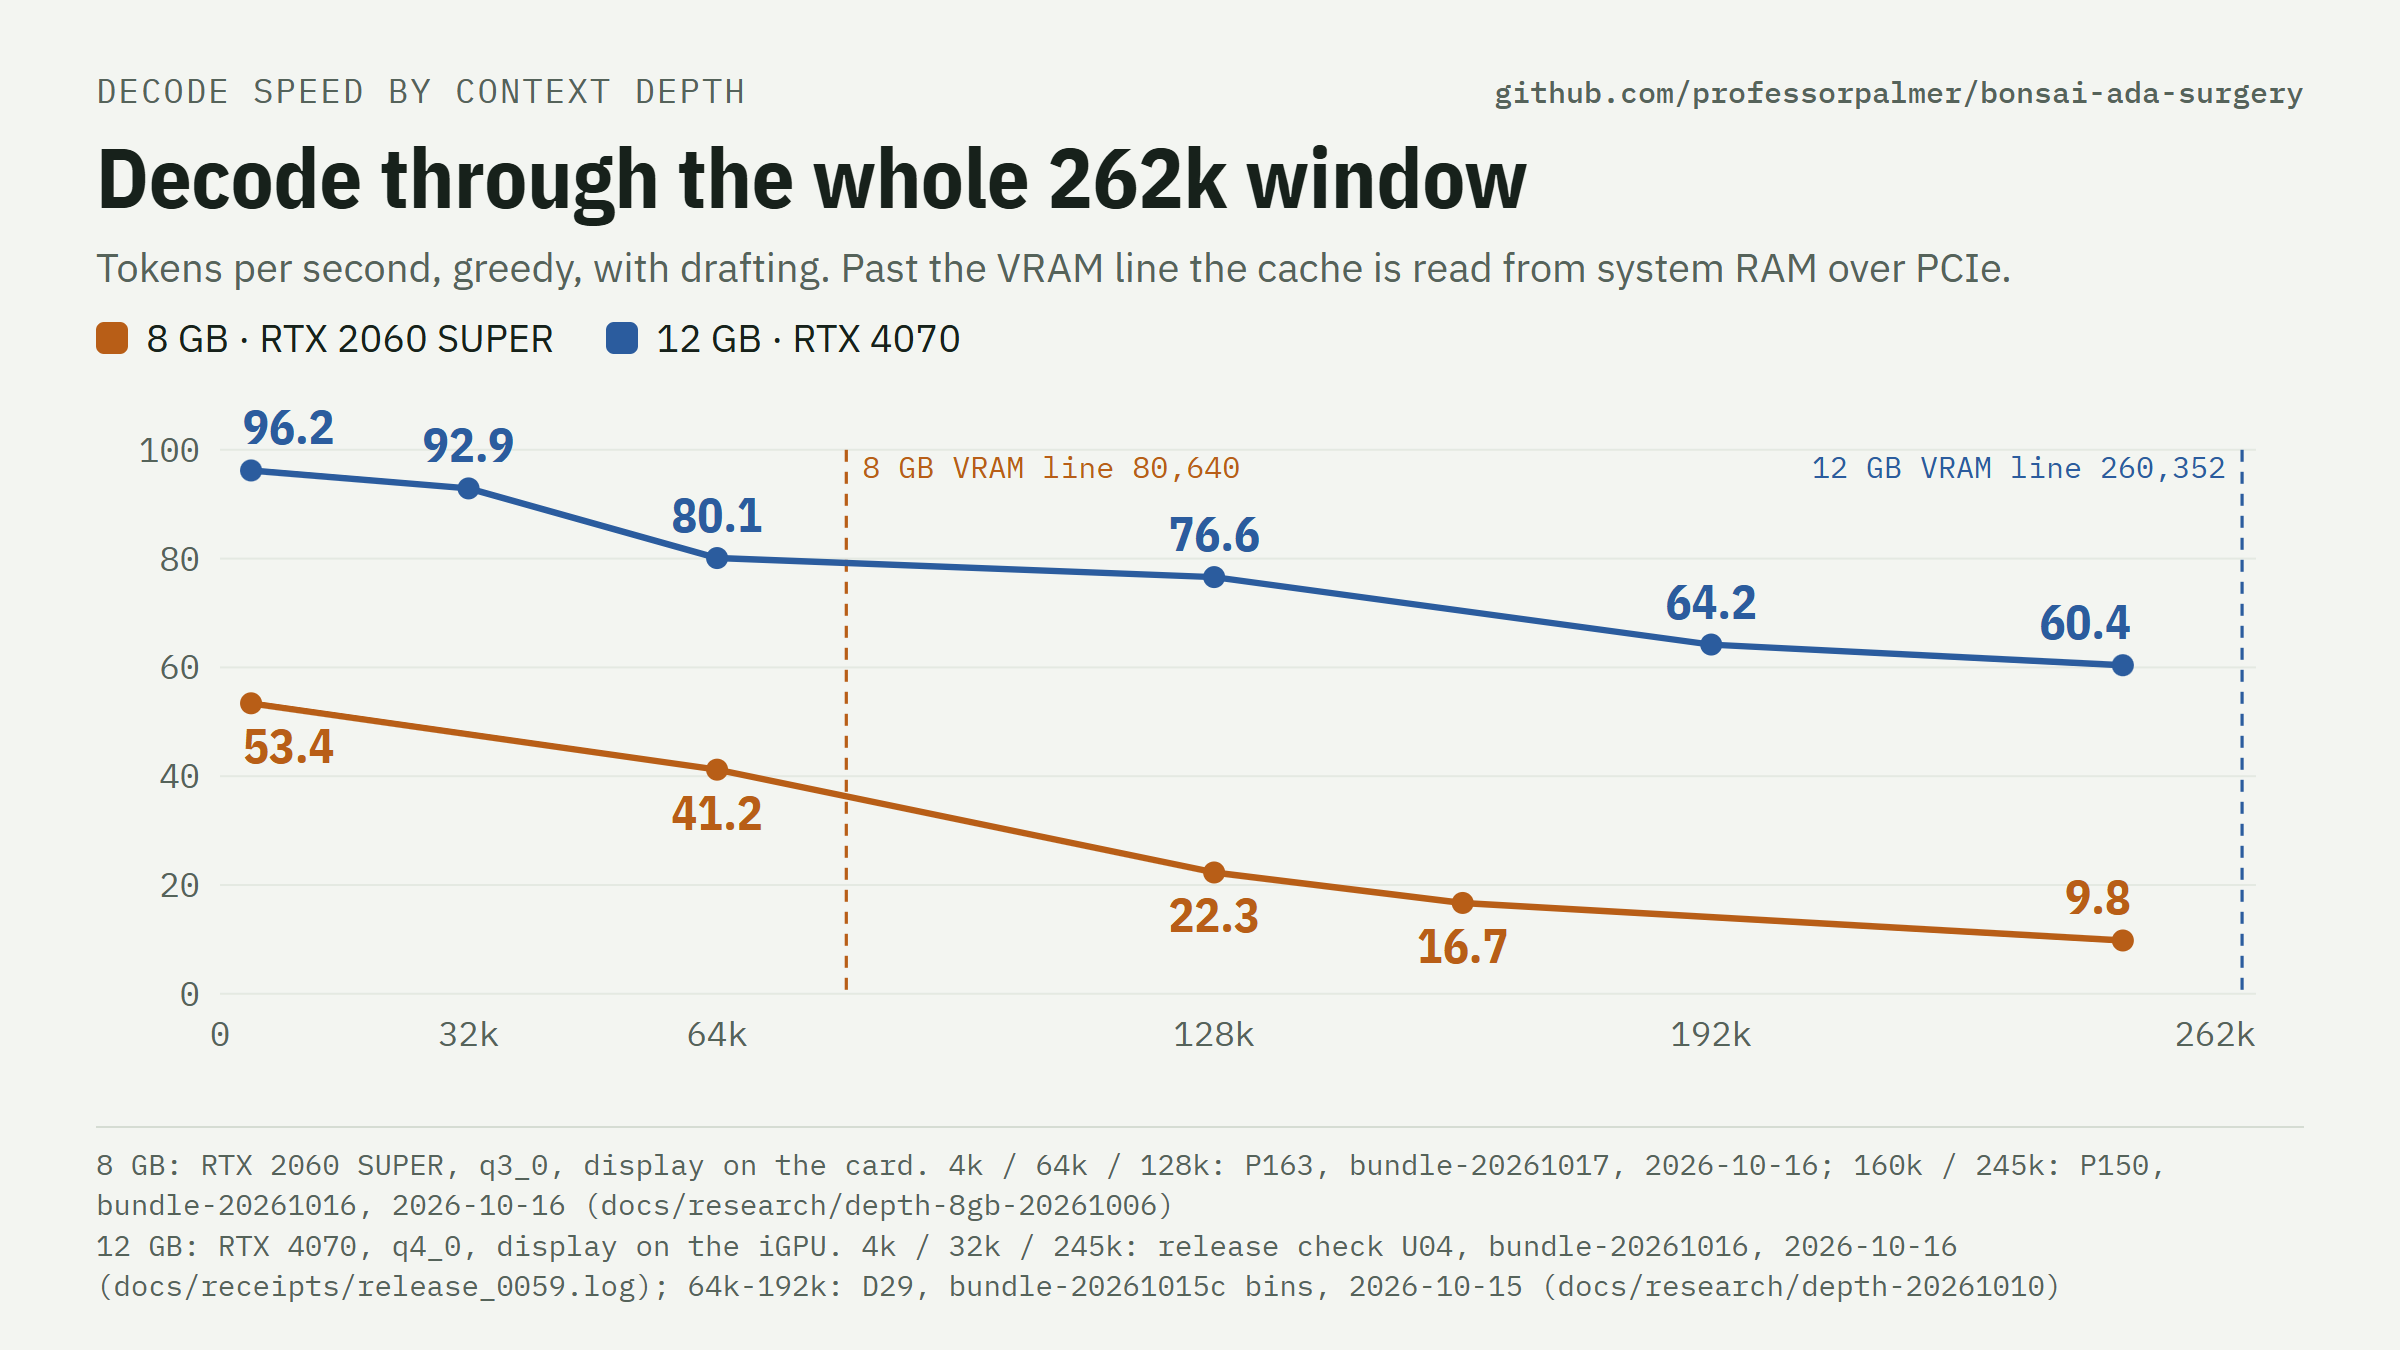
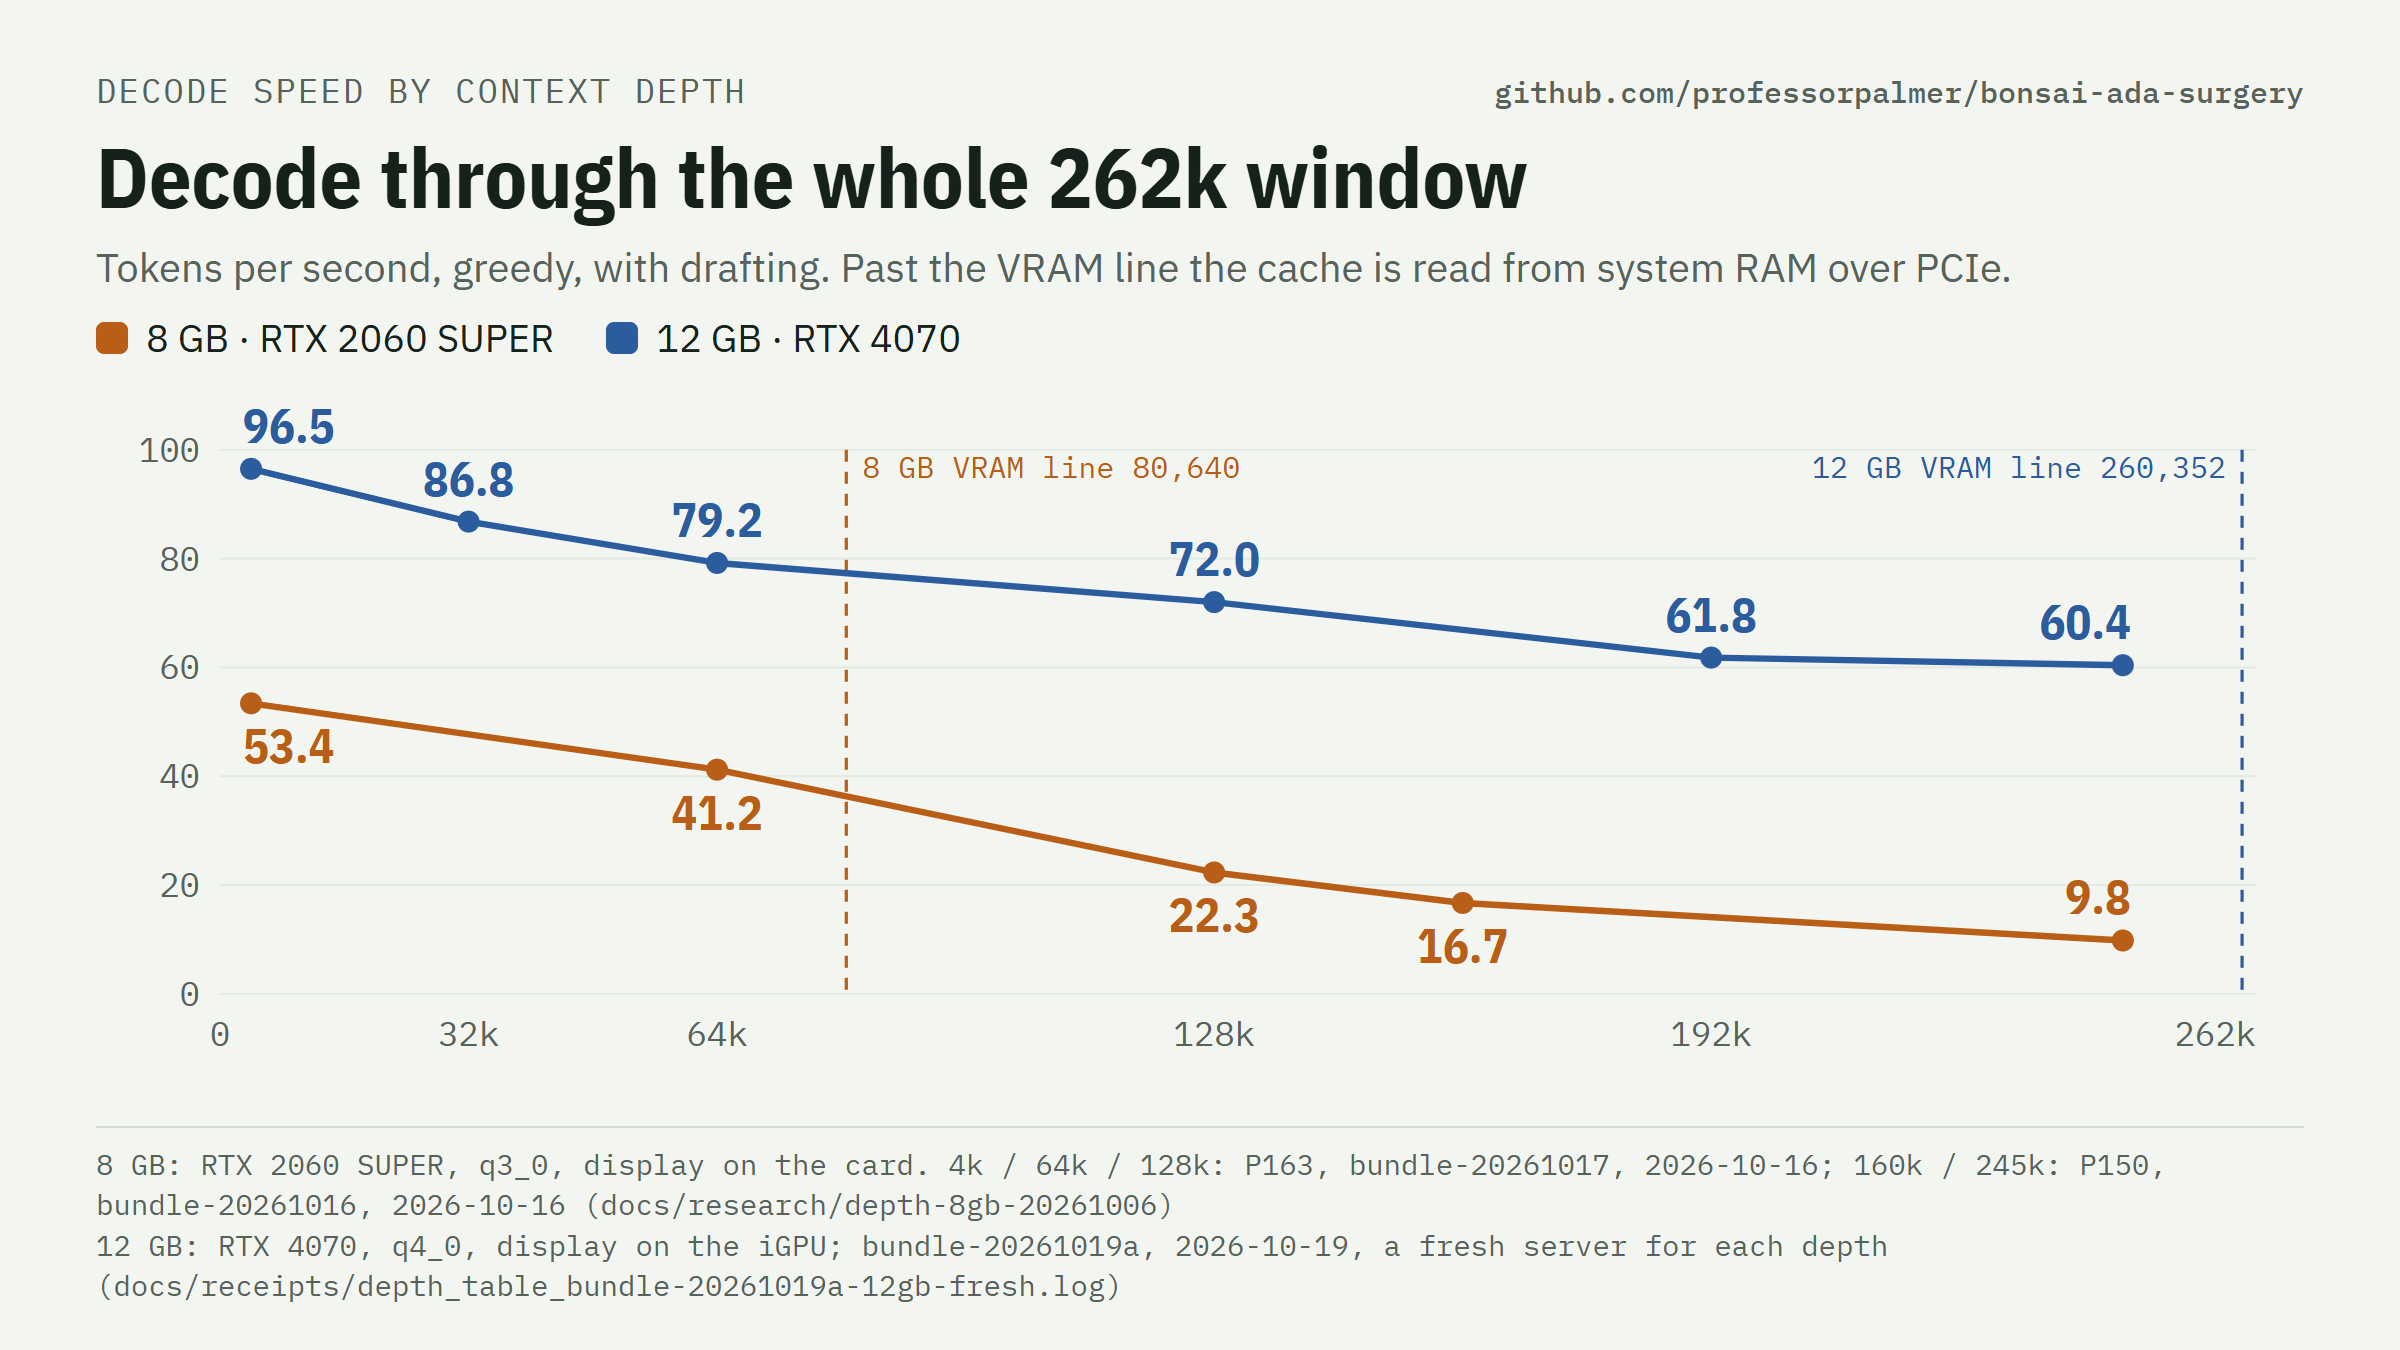
docs: 12 GB numbers from bundle-20261019a, a fresh server for each depth; 12 GB cold reads 4k-245k
One server start per depth: lookup drafting learns from earlier answers, so a one-server table that asks the same prompts at each depth shows too-high numbers at the later depths (4k 119.9 against 96.5 fresh). Cards, scorecard and the 12 GB / 8 GB pages now use one 12 GB run (docs/receipts/depth_table_bundle-20261019a-12gb-fresh.log); the 12 GB cold reads at 32k-245k are new.

Changed region(s): [[0.0938, 0.3111, 0.875, 0.4978], [0.1562, 0.9022, 0.8438, 0.9644]]

diff --git a/docs/cards/prefill.html b/docs/cards/prefill.html
@@ -6,26 +6,23 @@
 <script>
 var DATA = {
   rig: {
-    '12gb': '12 GB: RTX 4070, q4_0, display on the iGPU; release check U04, bundle-20261016, 2026-10-16 (docs/receipts/release_0059.log). Cold 64k-245k reads with q4_0: not measured yet',
+    '12gb': '12 GB: RTX 4070, q4_0, display on the iGPU; bundle-20261019a, 2026-10-19, a fresh server for each prompt (docs/receipts/depth_table_bundle-20261019a-12gb-fresh.log)',
     '8gb': '8 GB: RTX 2060 SUPER, q3_0, display on the card; P163 / P168, bundle-20261017, 2026-10-16/17; P156c, bundle-20261016b, 2026-10-16 (docs/research/depth-8gb-20261006)'
   },
   // rate = prefill tok/s reported by the server; ttft = seconds to the first token where the record gives it.
   rows: [
     { label: '4k prompt, cold', note: '4,048 tokens',
-      '12gb': { rate: 1294, ttft: 3.13 },      // release_0059.log r0059 code depth 4000: 1293.7 tok/s, ttft 3.13 s
+      '12gb': { rate: 1297, ttft: 3.12 },      // fresh 4000 code: 1297.3 tok/s, ttft 3.12 s
       '8gb': { rate: 417, ttft: 9.71 } },       // P163 sweep 4k: 416.7 tok/s, TTFT 9.71 s
     { label: '64k prompt, cold', note: '~64,000 tokens',
-      '12gb': null,
+      '12gb': { rate: 968, ttft: 66.1 },       // fresh 64000 code: 968.3 tok/s, ttft 66.11 s (64,009 tokens)
       '8gb': { rate: 309, ttft: null } },       // P168 cold 64k: 309.3-309.6 tok/s (wall 208.9 s with the answer)
     { label: '128k prompt, cold', note: '127,340 tokens',
-      '12gb': null,
+      '12gb': { rate: 739, ttft: 172 },        // fresh 128000 code: 738.7 tok/s, ttft 172.38 s
       '8gb': { rate: 241, ttft: 529 } },        // P163 cold 128k: 240.6 tok/s, TTFT 529.28 s
     { label: '245k prompt, cold', note: '243,896 tokens',
-      '12gb': null,
-      '8gb': { rate: 164, ttft: 1489 } },       // P156c t2 (the default since bundle-20261016b): 163.8 tok/s, TTFT 1,488.61 s
-    { label: '32k read, then to 245k', note: '212,368 new tokens',
-      '12gb': { rate: 477, ttft: 445 },        // release_0059.log r0059 code depth 245000: 477.1 tok/s, ttft 445.14 s
-      '8gb': null }
+      '12gb': { rate: 516, ttft: 473 },        // fresh 245000 code: 516.0 tok/s, ttft 472.71 s
+      '8gb': { rate: 164, ttft: 1489 } }        // P156c t2 (the default since bundle-20261016b): 163.8 tok/s, TTFT 1,488.61 s
   ],
   max: 1300
 };

diff --git a/docs/cards/scorecard.html b/docs/cards/scorecard.html
@@ -7,7 +7,7 @@
 var DATA = {
   // Small print under the card, one line per tier.
   rig: {
-    '12gb': 'RTX 4070, display on the iGPU: decode 2026-10-15/16, HumanEval 2026-10-16 (bundle-20261016)',
+    '12gb': 'RTX 4070, display on the iGPU: speed 2026-10-19 (bundle-20261019a), HumanEval 2026-10-16 (bundle-20261016)',
     '8gb': 'RTX 2060 SUPER, display on the card: decode 2026-10-16 (bundle-20261016/17), HumanEval 2026-10-14'
   },
   // Window and K/V cache type: start-server.ps1 defaults (12 GB band: q4_0; 8 GB preset: q3_0, 262k with >= 24 GB RAM).
@@ -17,13 +17,13 @@ var DATA = {
   // 8 GB docs/research/depth-8gb-20261006/experiments/P163.md (launcher line, display on the card).
   vramCells: { '12gb': 260352, '8gb': 80640 },
   // Decode, tok/s, quick_tps mean of code / prose / bash, 400-token greedy answers, MTP + lookup drafting.
-  // 12 GB: 4k and 245k docs/receipts/release_0059.log U04 (2026-10-16); 128k docs/research/depth-20261010 D29 (2026-10-15).
+  // 12 GB: docs/receipts/depth_table_bundle-20261019a-12gb-fresh.log (2026-10-19, a fresh server for each depth).
   // 8 GB: 4k and 128k P163.md (2026-10-16); 245k P150.md (2026-10-16).
-  decode4k: { '12gb': 96.2, '8gb': 53.4 },
-  decode128k: { '12gb': 76.6, '8gb': 22.3 },
+  decode4k: { '12gb': 96.5, '8gb': 53.4 },
+  decode128k: { '12gb': 72.0, '8gb': 22.3 },
   decode245k: { '12gb': 60.4, '8gb': 9.8 },
-  // Prefill of a fresh 4,048-token code prompt, tok/s. 12 GB release_0059.log U04 r0059; 8 GB P163.md sweep 4k.
-  prefill4k: { '12gb': 1294, '8gb': 417 },
+  // Prefill of a fresh 4,048-token code prompt, tok/s. 12 GB the same 2026-10-19 log; 8 GB P163.md sweep 4k.
+  prefill4k: { '12gb': 1297, '8gb': 417 },
   // HumanEval 164 at medium, default cache. 12 GB docs/research/release-20261016 U03 (q4_0);
   // 8 GB docs/research/release-20261014b S04 / P131 (q3_0).
   humaneval: { '12gb': 158, '8gb': 163 }

diff --git a/docs/cards/decode.html b/docs/cards/decode.html
@@ -6,18 +6,18 @@
 <script>
 var DATA = {
   rig: {
-    '12gb': '12 GB: RTX 4070, q4_0, display on the iGPU. 4k / 32k / 245k: release check U04, bundle-20261016, 2026-10-16 (docs/receipts/release_0059.log); 64k-192k: D29, bundle-20261015c bins, 2026-10-15 (docs/research/depth-20261010)',
+    '12gb': '12 GB: RTX 4070, q4_0, display on the iGPU; bundle-20261019a, 2026-10-19, a fresh server for each depth (docs/receipts/depth_table_bundle-20261019a-12gb-fresh.log)',
     '8gb': '8 GB: RTX 2060 SUPER, q3_0, display on the card. 4k / 64k / 128k: P163, bundle-20261017, 2026-10-16; 160k / 245k: P150, bundle-20261016, 2026-10-16 (docs/research/depth-8gb-20261006)'
   },
   // quick_tps.py: mean of code / prose / bash prompts, 400-token greedy answers, MTP + lookup drafting.
   points: {
     '12gb': [
-      [4000, 96.2],     // release_0059.log U04 r0059
-      [32000, 92.9],    // release_0059.log U04 r0059
-      [64000, 80.1],    // ktype12_d29.log / depth-20261010 D29 q4_0
-      [128000, 76.6],   // D29 q4_0
-      [192000, 64.2],   // D29 q4_0
-      [245000, 60.4]    // release_0059.log U04 r0059
+      [4000, 96.5],     // depth_table_bundle-20261019a-12gb-fresh.log, each depth on a fresh server
+      [32000, 86.8],
+      [64000, 79.2],
+      [128000, 72.0],
+      [192000, 61.8],
+      [245000, 60.4]
     ],
     '8gb': [
       [4000, 53.4],     // P163 sweep 4k (mean)

diff --git a/docs/12gb/README.md b/docs/12gb/README.md
@@ -1,6 +1,6 @@
 # Bonsai 2 27B on a 12 GB card
 
-![Decode by context depth on the RTX 4070 12 GB with q4_0: 96.2 / 92.9 / 80.1 / 76.6 / 64.2 / 60.4 tok/s at 4k / 32k / 64k / 128k / 192k / 245k; RTX 2060 SUPER 8 GB with q3_0: 53.4 / 41.2 / 22.3 / 16.7 / 9.8 tok/s at 4k / 64k / 128k / 160k / 245k](img/decode.png)
+![Decode by context depth on the RTX 4070 12 GB with q4_0: 96.5 / 86.8 / 79.2 / 72.0 / 61.8 / 60.4 tok/s at 4k / 32k / 64k / 128k / 192k / 245k; RTX 2060 SUPER 8 GB with q3_0: 53.4 / 41.2 / 22.3 / 16.7 / 9.8 tok/s at 4k / 64k / 128k / 160k / 245k](img/decode.png)
 
 On a 12 GB card the launcher serves the full 262,144-token window with a q4_0 K/V cache. On an RTX 4070 with the
 display on the CPU's iGPU, 260,352 of the 262,144 positions stay in VRAM. Decode at 245k is 60.4 tok/s.
@@ -23,27 +23,28 @@ of a code, a prose and a bash prompt, 400-token greedy answers, MTP and lookup d
 
 | depth | 4k | 32k | 64k | 128k | 192k | 245k |
 | --- | ---: | ---: | ---: | ---: | ---: | ---: |
-| decode (tok/s) | 96.2 | 92.9 | 80.1 | 76.6 | 64.2 | 60.4 |
+| decode (tok/s) | 96.5 | 86.8 | 79.2 | 72.0 | 61.8 | 60.4 |
 
-4k, 32k and 245k: release check U04 of bundle-20261016, 2026-10-16 ([`docs/receipts/release_0059.log`](../receipts/release_0059.log),
-[release-20261016](../research/release-20261016/EXPERIMENTS.md)). 64k-192k: D29, bundle-20261015c bins with q4_0,
-2026-10-15 ([depth-20261010](../research/depth-20261010/EXPERIMENTS.md#d29-result-kv-type-on-the-12-gb-recipe-2026-10-15-1547-1742)).
-With the display on the card the VRAM line is 242,176 positions, and decode at 192k / 245k is 62.5 / 45.7 tok/s (D29b).
+bundle-20261019a, 2026-10-19, a fresh server for each depth ([`docs/receipts/depth_table_bundle-20261019a-12gb-fresh.log`](../receipts/depth_table_bundle-20261019a-12gb-fresh.log)).
+A fresh server matters: lookup drafting learns from earlier answers, so a table that asks the same prompts at each
+depth on one server shows too-high numbers at the later depths. With the display on the card the VRAM line is 242,176 positions, and decode at 192k / 245k is 62.5 / 45.7 tok/s (D29b).
 
 | prompt read (prefill), code prompt | tok/s | time to first token |
 | --- | ---: | ---: |
-| 4k, cold (4,048 tokens) | 1,294 | 3.1 s |
-| from 4k to 32k (28,512 new tokens) | 1,126 | 25.3 s |
-| from 32k to 245k (212,368 new tokens) | 477 | 445 s |
-| cold 64k, 128k, 245k with q4_0 | not measured | not measured |
+| 4k, cold (4,048 tokens) | 1,297 | 3.1 s |
+| 32k, cold (32,044 tokens) | 1,151 | 27.8 s |
+| 64k, cold (64,009 tokens) | 968 | 66.1 s |
+| 128k, cold (127,340 tokens) | 739 | 172 s |
+| 192k, cold (191,010 tokens) | 597 | 320 s |
+| 245k, cold (243,896 tokens) | 516 | 473 s |
 
-Same source: U04, 2026-10-16. Without the drafter, q4_0 decodes as fast as q8_0 at 4k and faster deeper (32k +3.8 %,
-128k +9.6 %, U04b).
+Same source. Without the drafter, q4_0 decodes as fast as q8_0 at 4k and faster deeper (32k +3.8 %,
+128k +9.6 %; U04b, bundle-20261016, [`release_0059.log`](../receipts/release_0059.log)).
 
 Quality with q4_0: HumanEval 164 158/164 (the q8_0 runs: 158); at 245k exact code copies 20/20 and needles 24/24
 (q8_0: 20/20, 23/24); perplexity +0.21 % (-c 2048). Details: [Quality](../quality/README.md).
 
-![Prompt reading on both cards: RTX 4070 12 GB 1,294 tok/s on a cold 4k prompt (3.1 s) and 477 tok/s from 32k to 245k (445 s); RTX 2060 SUPER 8 GB 417 tok/s at 4k (9.7 s), cold 64k 309 tok/s, cold 128k 241 tok/s (529 s), cold 245k 164 tok/s (1,489 s); cold 64k-245k reads with q4_0 on 12 GB not measured](img/prefill.png)
+![Prompt reading on both cards: RTX 4070 12 GB 1,297 tok/s on a cold 4k prompt (3.1 s), cold 64k 968 tok/s (66 s), cold 128k 739 tok/s (172 s), cold 245k 516 tok/s (473 s); RTX 2060 SUPER 8 GB 417 tok/s at 4k (9.7 s), cold 64k 309 tok/s, cold 128k 241 tok/s (529 s), cold 245k 164 tok/s (1,489 s)](img/prefill.png)
 
 ## Why q4_0
 

diff --git a/docs/8gb/README.md b/docs/8gb/README.md
@@ -1,6 +1,6 @@
 # Bonsai 2 27B on an 8 GB card
 
-![Decode by context depth on the RTX 2060 SUPER 8 GB with q3_0: 53.4 / 41.2 / 22.3 / 16.7 / 9.8 tok/s at 4k / 64k / 128k / 160k / 245k; RTX 4070 12 GB with q4_0: 96.2 / 92.9 / 80.1 / 76.6 / 64.2 / 60.4 tok/s at 4k / 32k / 64k / 128k / 192k / 245k](img/decode.png)
+![Decode by context depth on the RTX 2060 SUPER 8 GB with q3_0: 53.4 / 41.2 / 22.3 / 16.7 / 9.8 tok/s at 4k / 64k / 128k / 160k / 245k; RTX 4070 12 GB with q4_0: 96.5 / 86.8 / 79.2 / 72.0 / 61.8 / 60.4 tok/s at 4k / 32k / 64k / 128k / 192k / 245k](img/decode.png)
 
 On an 8 GB card the launcher serves the full 262,144-token window with a q3_0 K/V cache. About 80,640 positions stay
 in VRAM; the rest of the cache is in pinned system RAM and is read over PCIe. The numbers on this page are from an
@@ -50,7 +50,7 @@ the next read after a restart take seconds: a ~199k document answered 5.3 s afte
 Quality with q3_0: HumanEval 164 163/164 (P131); at 245k exact code copies 20/20 and needles 23/24, equal to the dense
 read item by item (P148). Drift against an f16 cache: [Quality](../quality/README.md).
 
-![Prompt reading on both cards: RTX 2060 SUPER 8 GB 417 tok/s on a cold 4k prompt (9.7 s), cold 64k 309 tok/s, cold 128k 241 tok/s (529 s), cold 245k 164 tok/s (1,489 s); RTX 4070 12 GB 1,294 tok/s at 4k (3.1 s) and 477 tok/s from 32k to 245k (445 s)](img/prefill.png)
+![Prompt reading on both cards: RTX 2060 SUPER 8 GB 417 tok/s on a cold 4k prompt (9.7 s), cold 64k 309 tok/s, cold 128k 241 tok/s (529 s), cold 245k 164 tok/s (1,489 s); RTX 4070 12 GB 1,297 tok/s on a cold 4k prompt (3.1 s), cold 64k 968 tok/s (66 s), cold 128k 739 tok/s (172 s), cold 245k 516 tok/s (473 s)](img/prefill.png)
 
 ![Cache positions in VRAM out of 262,144: 8 GB q3_0 80,640 (9.8 tok/s at 245k), 8 GB q4_0 61,696; 12 GB q4_0 260,352 with the display on the iGPU (61.0 tok/s) and 242,176 with the display on the card (45.7), 12 GB q8_0 129,024 (15.4)](img/vram.png)
 

diff --git a/README.md b/README.md
@@ -1,6 +1,6 @@
 # Bonsai 2 27B: the full 262k window on 12 GB and 8 GB cards
 
-![Scorecard. RTX 4070 12 GB with q4_0 K/V: 262,144-token window, 260,352 positions in VRAM, decode 96.2 / 76.6 / 60.4 tok/s at 4k / 128k / 245k, a 4k prompt read at 1,294 tok/s, HumanEval 158/164. RTX 2060 SUPER 8 GB with q3_0 K/V: 262,144-token window, 80,640 positions in VRAM, decode 53.4 / 22.3 / 9.8 tok/s, 417 tok/s, HumanEval 163/164](docs/img/scorecard.png)
+![Scorecard. RTX 4070 12 GB with q4_0 K/V: 262,144-token window, 260,352 positions in VRAM, decode 96.5 / 72.0 / 60.4 tok/s at 4k / 128k / 245k, a 4k prompt read at 1,297 tok/s, HumanEval 158/164. RTX 2060 SUPER 8 GB with q3_0 K/V: 262,144-token window, 80,640 positions in VRAM, decode 53.4 / 22.3 / 9.8 tok/s, 417 tok/s, HumanEval 163/164](docs/img/scorecard.png)
 
 Ternary Bonsai 2 27B is PrismML's 1.58-bit ternary model (`PTQ1_0`, 5.9 GB). This repo serves it with the full
 262,144-token window on 12 GB and 8 GB NVIDIA cards. It has a patched [PrismML llama.cpp](https://github.com/PrismML-Eng/llama.cpp),
